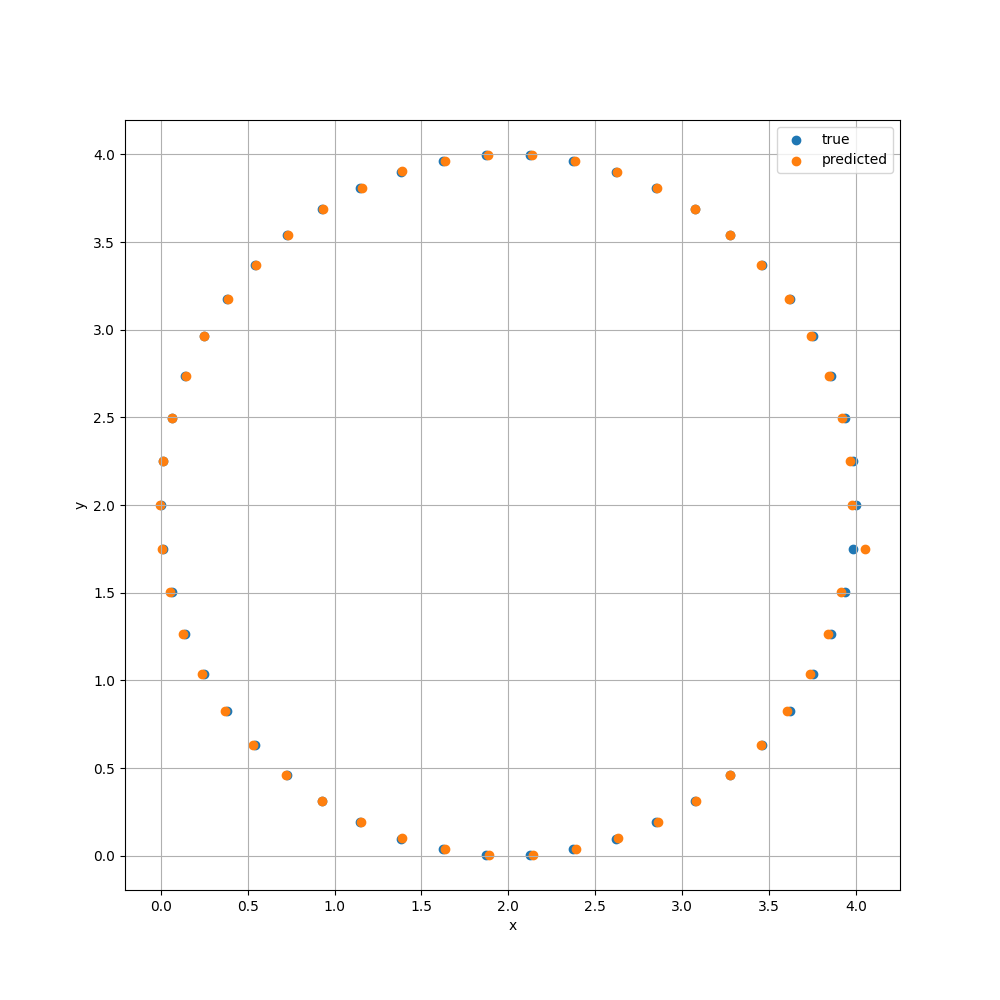
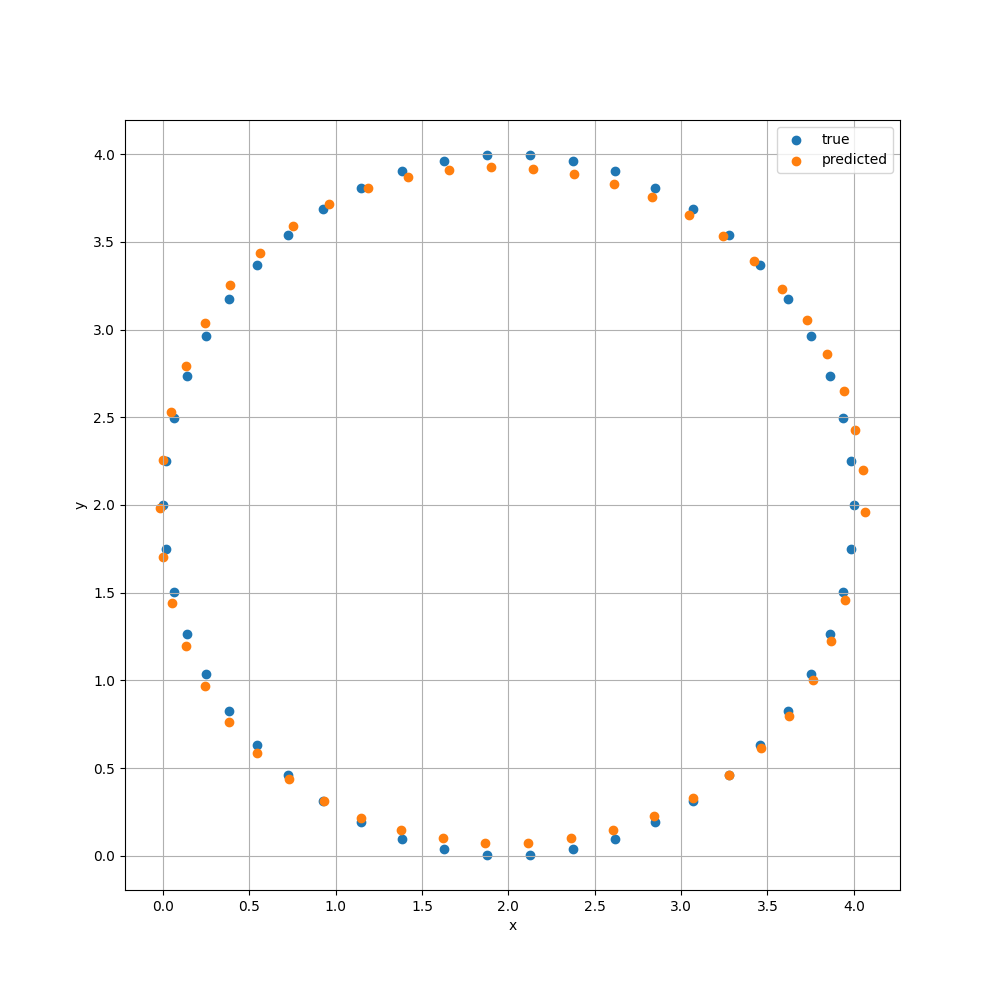
model re-changed

diff --git a/pytorch_pr3.py b/pytorch_pr3.py
@@ -88,14 +88,17 @@ def train(epochs, model, criterion, optimizer):
         running_loss = 0.
         for x_train, y_train in train_loader:
             for timestep in range(x_train.shape[1]):
-                traindata = x_train[0, timestep].to(device)
+                traindata = x_train[0, 0].to(device)
                 targetdata = y_train[0, timestep].to(device)
                 targetdata = targetdata.view(-1, 2)
-                output, hidden = model(traindata, hidden)
-                output = torch.atanh(output)
+                if timestep == 0:
+                    output, hidden = model(traindata, hidden)
+                else:
+                    output, hidden = model(output[0], hidden)
+                output = torch.atanh(output).to(device)
                 output, hidden = output.to(device), hidden.to(device)
                 loss = criterion(output, targetdata)
-                running_loss += loss / x_train.shape[1]
+                running_loss += loss
                 
                 running_outputdata_cell = output.to("cpu").detach().numpy()
                 running_outputdata.append(running_outputdata_cell)
@@ -103,11 +106,11 @@ def train(epochs, model, criterion, optimizer):
         running_loss.backward()
         optimizer.step()
 
-        print(f'loss: {running_loss.item():.6f}')
-        losses.append(running_loss.item())
+        print(f'loss: {running_loss.item() / x_train.shape[1]:.6f}')
+        losses.append(running_loss.item() / x_train.shape[1])
         
         
-        if running_loss.item() < 1e-4:
+        if running_loss.item() / x_train.shape[1] < 0.003:
             for i in range(x_train.shape[1]):
                 outputdata.append(running_outputdata[i])
             break
